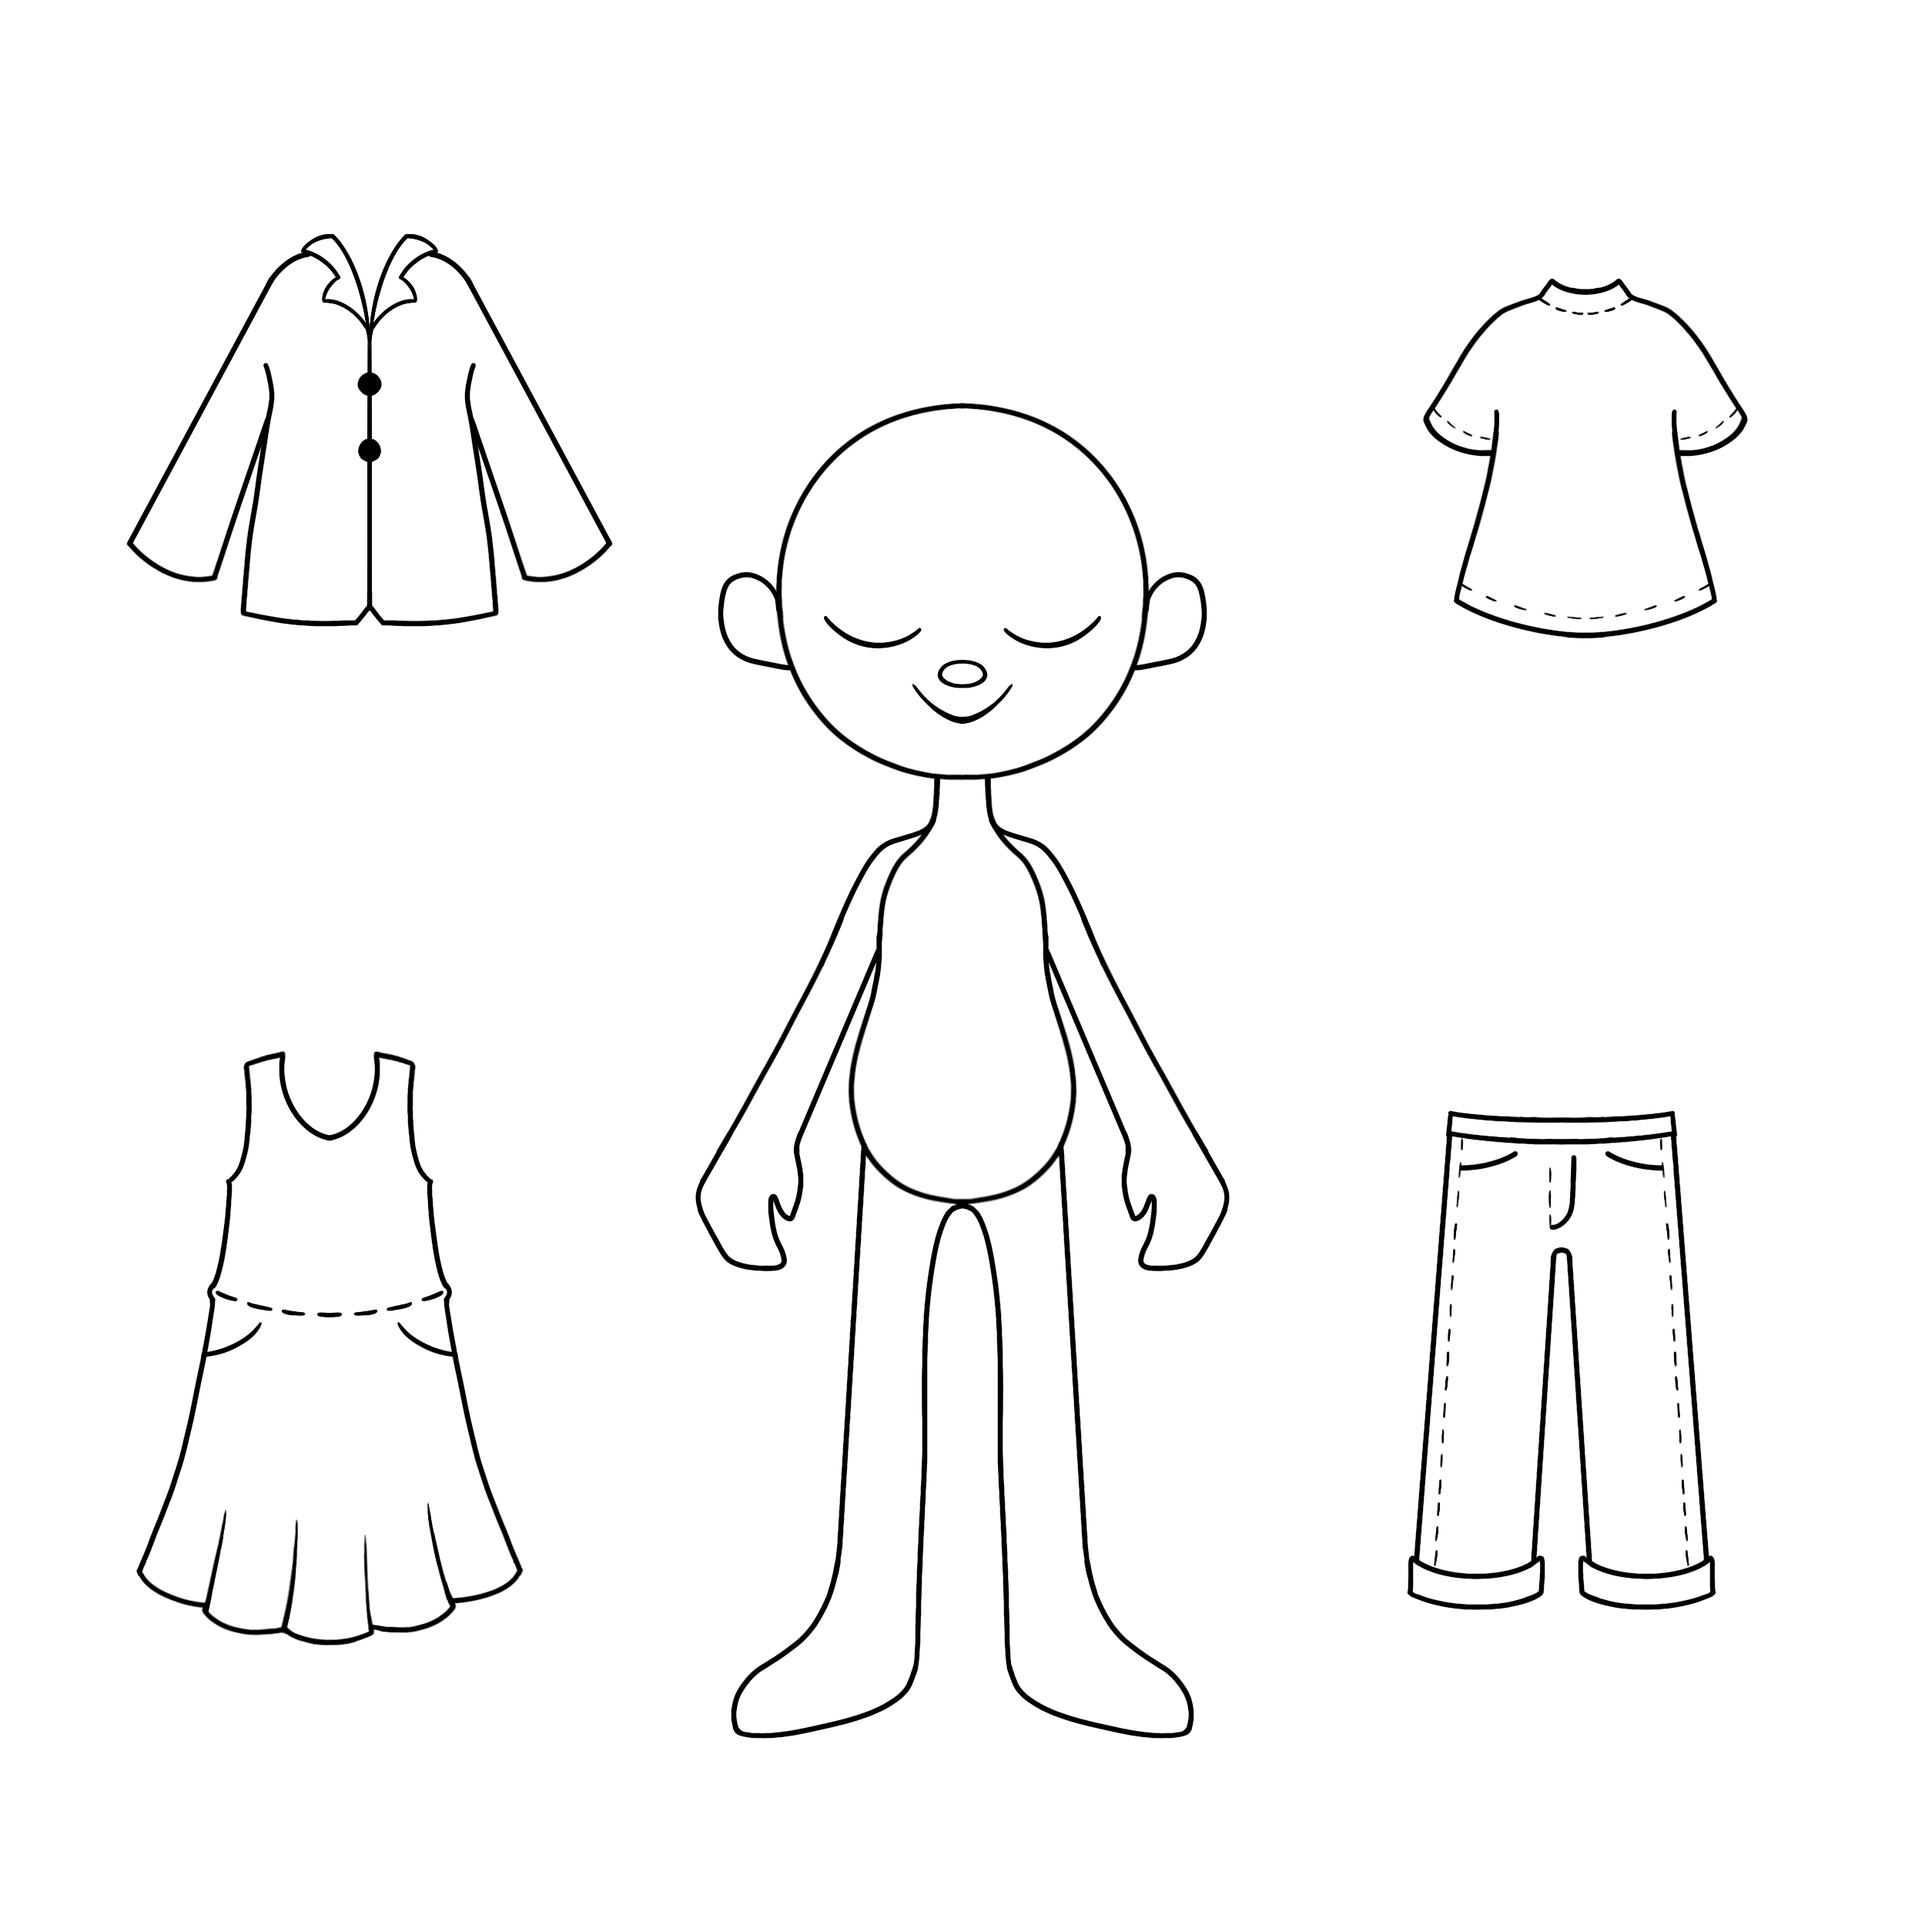
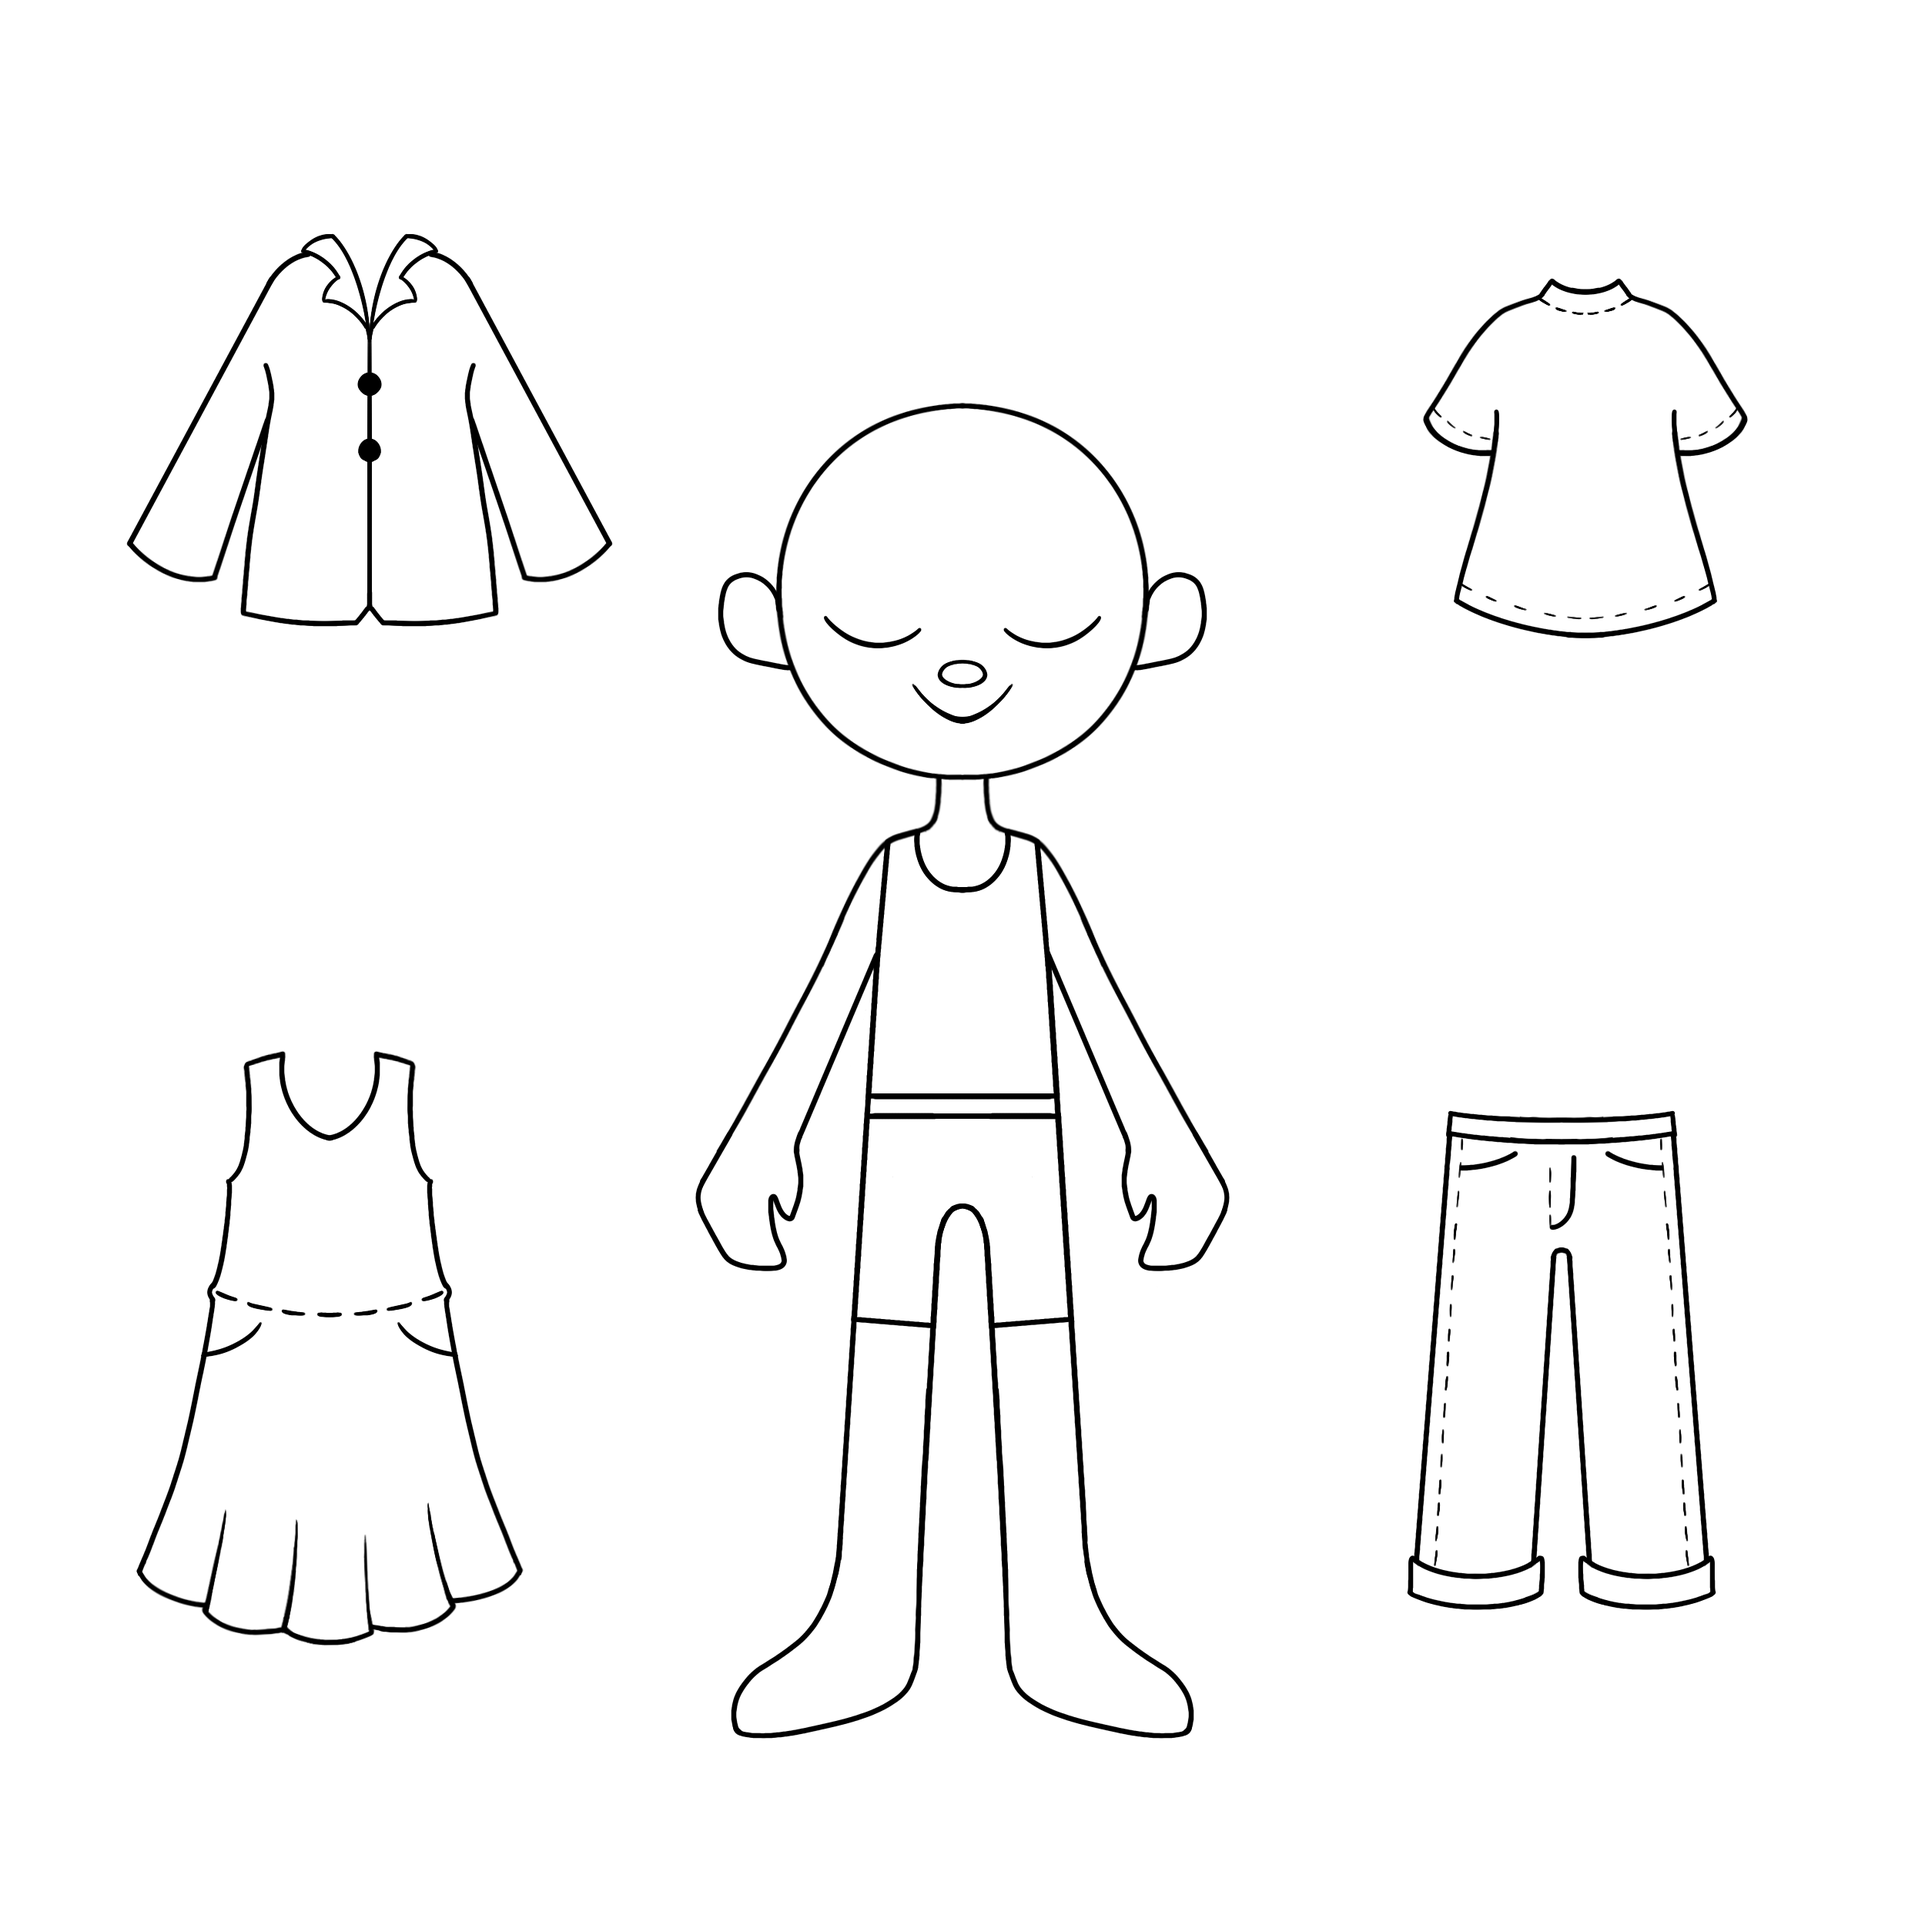
new body style v3 now with undergarments, plus a new hairstyle

Changed region(s): [[0.4368, 0.5304, 0.5616, 0.624], [0.468, 0.6552, 0.5304, 0.7488], [0.4368, 0.4056, 0.5616, 0.468]]

diff --git a/src/renderers/p5renderer.js b/src/renderers/p5renderer.js
@@ -3,6 +3,7 @@ export class P5Renderer {
     this.sketch = this.getSketch();
     this.sketch.addFill({color:'#aaaaaa'});
 		this.sketch.clear('#aaaaaa');
+    this.sketch.loadStencils();
     return this.sketch;
   }
 
@@ -14,12 +15,6 @@ export class P5Renderer {
       let strokeColor = 0;
       let strokeWeight = 5;
       let s, t; //p is main sketch, s is static canvas, t is temporary for animations
-
-      let paperdolls = { // paper doll stencils
-        outfits: [],
-        hairstyles: [],
-        dollFill: null
-      };
 
       p.getPreviewCanvas = () => {
         return t;
@@ -396,12 +391,18 @@ export class P5Renderer {
         s.pop();
       }
 
+      let paperdolls = { // paper doll stencils
+        outfits: [],
+        hairstyles: [],
+      };
+
       p.loadStencils = () => {
         let outfitNames = ['01'];
-        let hairstyleNames = ['01'];
+        let hairstyleNames = ['01', '02'];
       
         // Load doll fill
         paperdolls.dollFill = p.loadImage(`src/assets/stencils/paper-dolls/outfits/doll-fill.png`);
+        paperdolls.underlayerFill = p.loadImage('src/assets/stencils/paper-dolls/outfits/underlayer-fill.png');
       
         // Load all outfit and hairstyle files
         for (let name of outfitNames) {
@@ -421,8 +422,6 @@ export class P5Renderer {
           };
           paperdolls.hairstyles.push(hairstyle);
         }
-
-        console.log("loaded images");
       }
 
       // p.paperdoll = (params) => {
@@ -455,9 +454,11 @@ export class P5Renderer {
         dollCanvas.tint(c); // Apply the tint for the doll's fill image
         dollCanvas.image(paperdolls.dollFill, 0, 0, p.width, p.height); // Draw the doll's fill image
         dollCanvas.noTint(); // Remove the tint before drawing the other images
+        dollCanvas.image(paperdolls.underlayerFill, 0, 0, p.width, p.height); // Undies!
 
         // Prepare the outfit fill as a mask
         outfitCanvas.image(outfit.fill, 0, 0, p.width, p.height);
+        outfitCanvas.image(paperdolls.underlayerFill, 0, 0, p.width, p.height);
         outfitCanvas.drawingContext.globalCompositeOperation = 'source-in';
         outfitCanvas.image(s, 0, 0, p.width, p.height);
       

diff --git a/src/libraries/joy/joy-standard-modules.js b/src/libraries/joy/joy-standard-modules.js
@@ -1,7 +1,7 @@
 import { Joy } from "./joy.js";
 import { ChooserModal, ColorPicker } from "./components/modals.js";
 import { JoyButton, ChooserButton, JoyTextBox, NumberScrubber } from "./components/ui-widgets.js";
-import { _HSVToRGBString, _clone, TAU } from "./joy-utils.js";
+import { _HSVToRGBString, _clone, TAU, _removeFromArray } from "./joy-utils.js";
 
 /////////////////////////////////////////
 // FUNDAMENTAL USER INTERACE ACTORS /////
@@ -592,12 +592,13 @@ Joy.add({
     // ///////////////////////////////////////
     // // Reorder Entries - NF added /////////
     // ///////////////////////////////////////
-    this.moveEntry = (oldIndex, newIndex) => {
+    let _moveEntry = (oldIndex, newIndex) => {
       let item = this.entries.splice(oldIndex, 1)[0];
       this.entries.splice(newIndex, 0, item);
       this.update();
       _updateBullets();
-    }
+    };
+    this.moveAction = _moveEntry;
 
     ///////////////////////////////////////
     // Add Action /////////////////////////

diff --git a/src/index.js b/src/index.js
@@ -36,16 +36,16 @@ class MotifApp {
 		
 		//List sorting
     // Sortable.mount(new MultiDrag());
-		// let sortablelist = document.getElementById('actions-joy-list');
-    // new Sortable(sortablelist, {
-	  //   animation: 150,
-	  //   ghostClass: 'sortable-ghost',
-		// 	// multiDrag: true,
-		// 	// selectedClass: 'selected',
-		// 	onUpdate: (e) => {
-		// 		this.joy.actions.moveEntry(e.oldIndex, e.newIndex);
-		// 	}
-    // });
+		let sortablelist = document.getElementById('paintingActionList-joy-list');
+    new Sortable(sortablelist, {
+	    animation: 150,
+	    ghostClass: 'sortable-ghost',
+			// multiDrag: true,
+			// selectedClass: 'selected',
+			onUpdate: (e) => {
+				this.joyManager.moveAction('motif', e.oldIndex, e.newIndex);
+			}
+    });
 
 		//Mouse event listeners
 		let dragging = false;

diff --git a/src/config/effectList.js b/src/config/effectList.js
@@ -50,7 +50,6 @@ export const effectList = [
     cursor: './assets/cursors/star-solid.svg',
     mouseActionType: 'single-click',
     onact: (my) => {
-      console.log("target", my.target);
       my.target.addCircle({ color: my.data.color, x: my.data.x, y: my.data.y, r: my.data.radius });
     }
   },
@@ -462,7 +461,7 @@ export const effectList = [
     tag: 'stencils',
     init: `Paper doll with skin tone 
     {id:'skinTone', type:'color', placeholder:[25, 0.75, 0.4]}, 
-    hairstyle {id:'hairstyle', type:'choose', options:['1'], placeholder:'1'},
+    hairstyle {id:'hairstyle', type:'choose', options:['1', '2'], placeholder:'1'},
     outfit set {id:'outfit', type:'choose', options:['1'], placeholder:'1'}`,
     cursor: './assets/cursors/star-solid.svg',
     mouseActionType: 'single-click',

diff --git a/src/models/joy-manager.js b/src/models/joy-manager.js
@@ -201,6 +201,12 @@ export class JoyManager {
 		target.addAction(type, undefined, settings);
 		target.update();
   }
+
+	moveAction(listName, oldIndex, newIndex) {
+    const target = this.getParentList(listName);
+		target.moveAction(oldIndex, newIndex);
+		target.update();
+  }
 }
 
 

diff --git a/src/libraries/joy/components/ui-widgets.js b/src/libraries/joy/components/ui-widgets.js
@@ -1,6 +1,6 @@
 
 import { ChooserModal } from './modals.js';
-import { _preventWeirdCopyPaste, _blurOnEnter, _selectAll } from '../joy-utils.js';
+import { _preventWeirdCopyPaste, _blurOnEnter, _selectAll, _unselectAll } from '../joy-utils.js';
 
 /********************
 Button's config:
